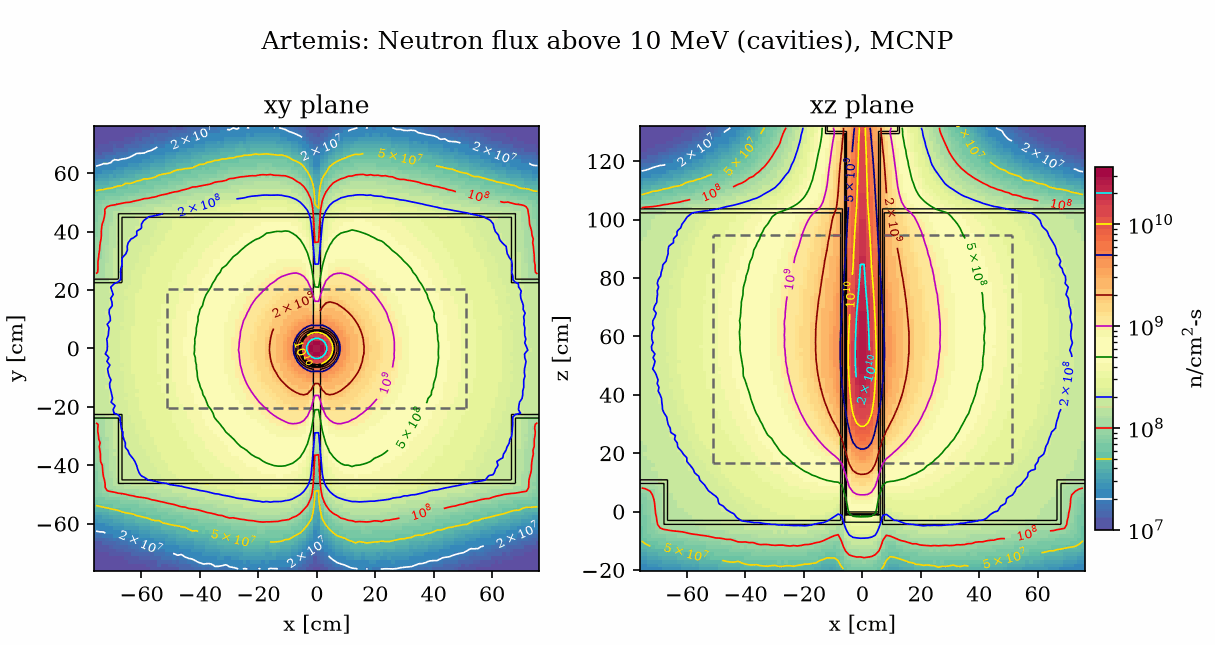
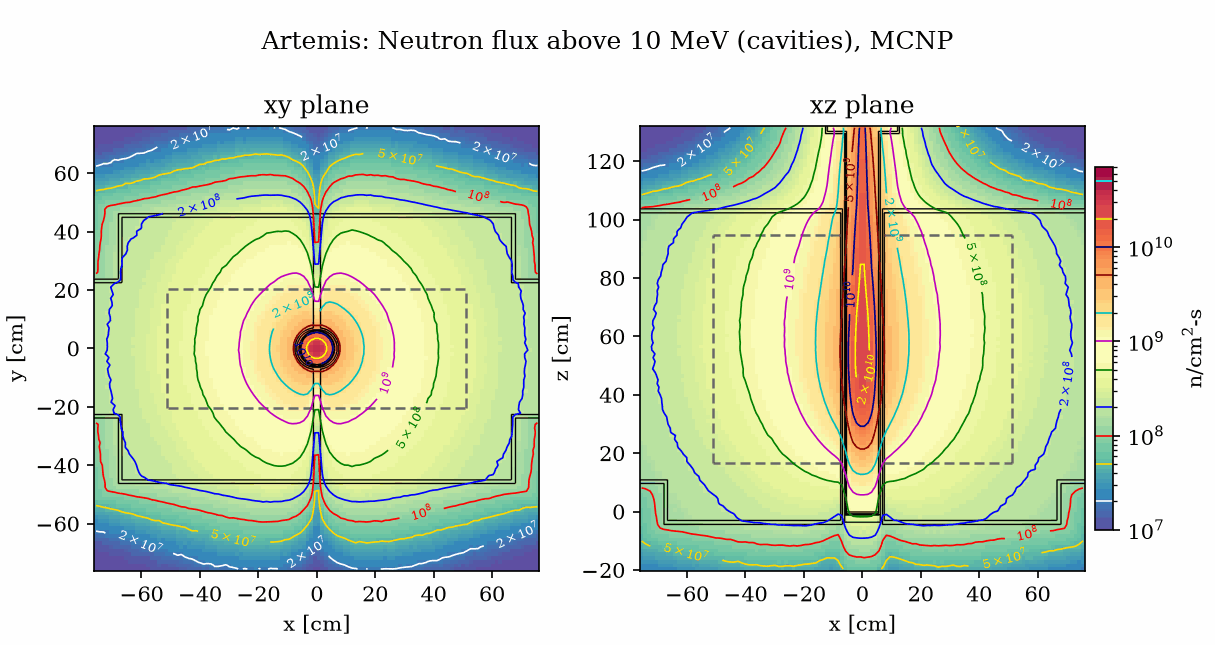
Share one color scale across the flux maps, and one across the dose maps
All the flux maps of a view (neutrons in total and in each group, 1-MeV(Si)
equivalent, and photons) now use one scale, as do its kerma maps; the ratio
maps keep their fixed scales. The README's cavity maps are remade with them.

diff --git a/plot_results.py b/plot_results.py
@@ -32,8 +32,11 @@ mcnptools (which comes with MCNP), and reading OpenMC results needs the openmc P
 
 Each flux figure has a panel for each plane of a view (xy and xz), all the same height, with a
 shared color scale (FIGURES), the same for every code given: a vmax of None is the largest value
-in the panels. Anything below vmin is shown in the vmin color instead of being left blank. There
-is a contour line at each colorbar tick, labeled with its value and drawn on the colorbar too.
+in the panels. All the flux maps of a view (neutrons in total and in each group, 1-MeV(Si)
+equivalent, and photons) share one scale, from their lowest vmin to the largest value of them all,
+and so do all its dose (kerma) maps (SCALE_GROUP). Anything below vmin is shown in the vmin color
+instead of being left blank. There is a contour line at each colorbar tick, labeled with its value
+and drawn on the colorbar too.
 Material boundaries are drawn on top from the OpenMC geometry plot of the same window
 (images/artemis_openmc_geom_<plane>_<view>.png, made by plot_geometry.py), which shows only
 material boundaries (the MCNP plots also show the boundaries between cells of one material). The
@@ -133,7 +136,7 @@ GROUP = {name: g for g, (name, _) in enumerate(NEUTRON_GROUPS)}
 # fmt: off
 FIGURES = [
     ('neutron'      , None        , 'pit'   , ('log', 1e6, None) , 100),
-    ('neutron'      , None        , 'cavity', ('log', 1e8, None) , 20),
+    ('neutron'      , None        , 'cavity', ('log', 1e7, None) , 20),
     ('neutron'      , 'thermal'   , 'pit'   , ('log', 1e6, None) , 100),
     ('neutron'      , 'thermal'   , 'cavity', ('log', 1e7, None) , 20),
     ('neutron'      , 'epithermal', 'pit'   , ('log', 1e6, None) , 100),
@@ -143,9 +146,9 @@ FIGURES = [
     ('neutron'      , 'high'      , 'pit'   , ('log', 1e6, None) , 100),
     ('neutron'      , 'high'      , 'cavity', ('log', 1e7, None) , 20),
     ('si'           , None        , 'pit'   , ('log', 1e6, None) , 100),
-    ('si'           , None        , 'cavity', ('log', 1e8, None) , 20),
+    ('si'           , None        , 'cavity', ('log', 1e7, None) , 20),
     ('photon'       , None        , 'pit'   , ('log', 1e6, None) , 100),
-    ('photon'       , None        , 'cavity', ('log', 1e8, None) , 20),
+    ('photon'       , None        , 'cavity', ('log', 1e7, None) , 20),
     ('nkerma'       , None        , 'pit'   , ('log', 1e-4, None), 100),
     ('nkerma'       , None        , 'cavity', ('log', 1e-1, None), 20),
     ('pkerma'       , None        , 'pit'   , ('log', 1e-4, None), 100),
@@ -158,6 +161,16 @@ FIGURES = [
     ('high_fraction', None        , 'cavity', ('linear', 0, 1)   , 20),
 ]
 # fmt: on
+# Maps that share one color scale in each view (the lowest vmin and the largest value of them
+# all): the fluxes, and the doses (kerma); the ratios keep their own fixed scales
+SCALE_GROUP = {
+    "neutron": "flux",
+    "photon": "flux",
+    "si": "flux",
+    "nkerma": "dose",
+    "pkerma": "dose",
+    "kerma": "dose",
+}  # fmt: skip
 # Derived quantities: the total kerma (neutron + photon), and the hardness factor and the fraction
 # above 10 MeV of the neutron flux. The ratios are left blank where the neutron flux is below the
 # floor of the view's flux map, where they are mostly noise
@@ -494,9 +507,18 @@ def plot_flux(results):
             tallies[key] = r.mesh(quantity, plane, view)
         return in_plane(*tallies[key], plane, group)
 
-    for quantity, group, view, (scale, vmin, vmax), tick in FIGURES:
-        maps = {r.name: [panel(r, quantity, group, plane, view) for plane in PLANES]
-                for r in results}  # fmt: skip
+    # Every figure's panels first, for the shared color scales: the lowest vmin and the largest
+    # value of each scale group in each view
+    all_maps = [{r.name: [panel(r, quantity, group, plane, view) for plane in PLANES]
+                 for r in results} for quantity, group, view, *_ in FIGURES]  # fmt: skip
+    shared = {}
+    for (quantity, _, view, (_, vmin, _), _), maps in zip(FIGURES, all_maps):
+        if quantity in SCALE_GROUP:
+            top = max(np.nanmax(flux) for panels in maps.values() for _, flux in panels)
+            lo, hi = shared.get((SCALE_GROUP[quantity], view), (np.inf, 0.0))
+            shared[SCALE_GROUP[quantity], view] = (min(lo, vmin), max(hi, top))
+
+    for (quantity, group, view, (scale, vmin, vmax), tick), maps in zip(FIGURES, all_maps):
         # Where each plane is, across it: the middle of the mesh's single bin across the plane
         across = {}
         for plane in PLANES:
@@ -513,6 +535,8 @@ def plot_flux(results):
         else:
             suffix = f"total_{view}" if quantity == "neutron" else view
         top = max(np.nanmax(flux) for panels in maps.values() for _, flux in panels)
+        if quantity in SCALE_GROUP:
+            vmin, top = shared[SCALE_GROUP[quantity], view]
         norm = (LogNorm if scale == "log" else Normalize)(vmin, top if vmax is None else vmax)
         for name, panels in maps.items():
             # The panels all have the same height, each with its own aspect ratio
